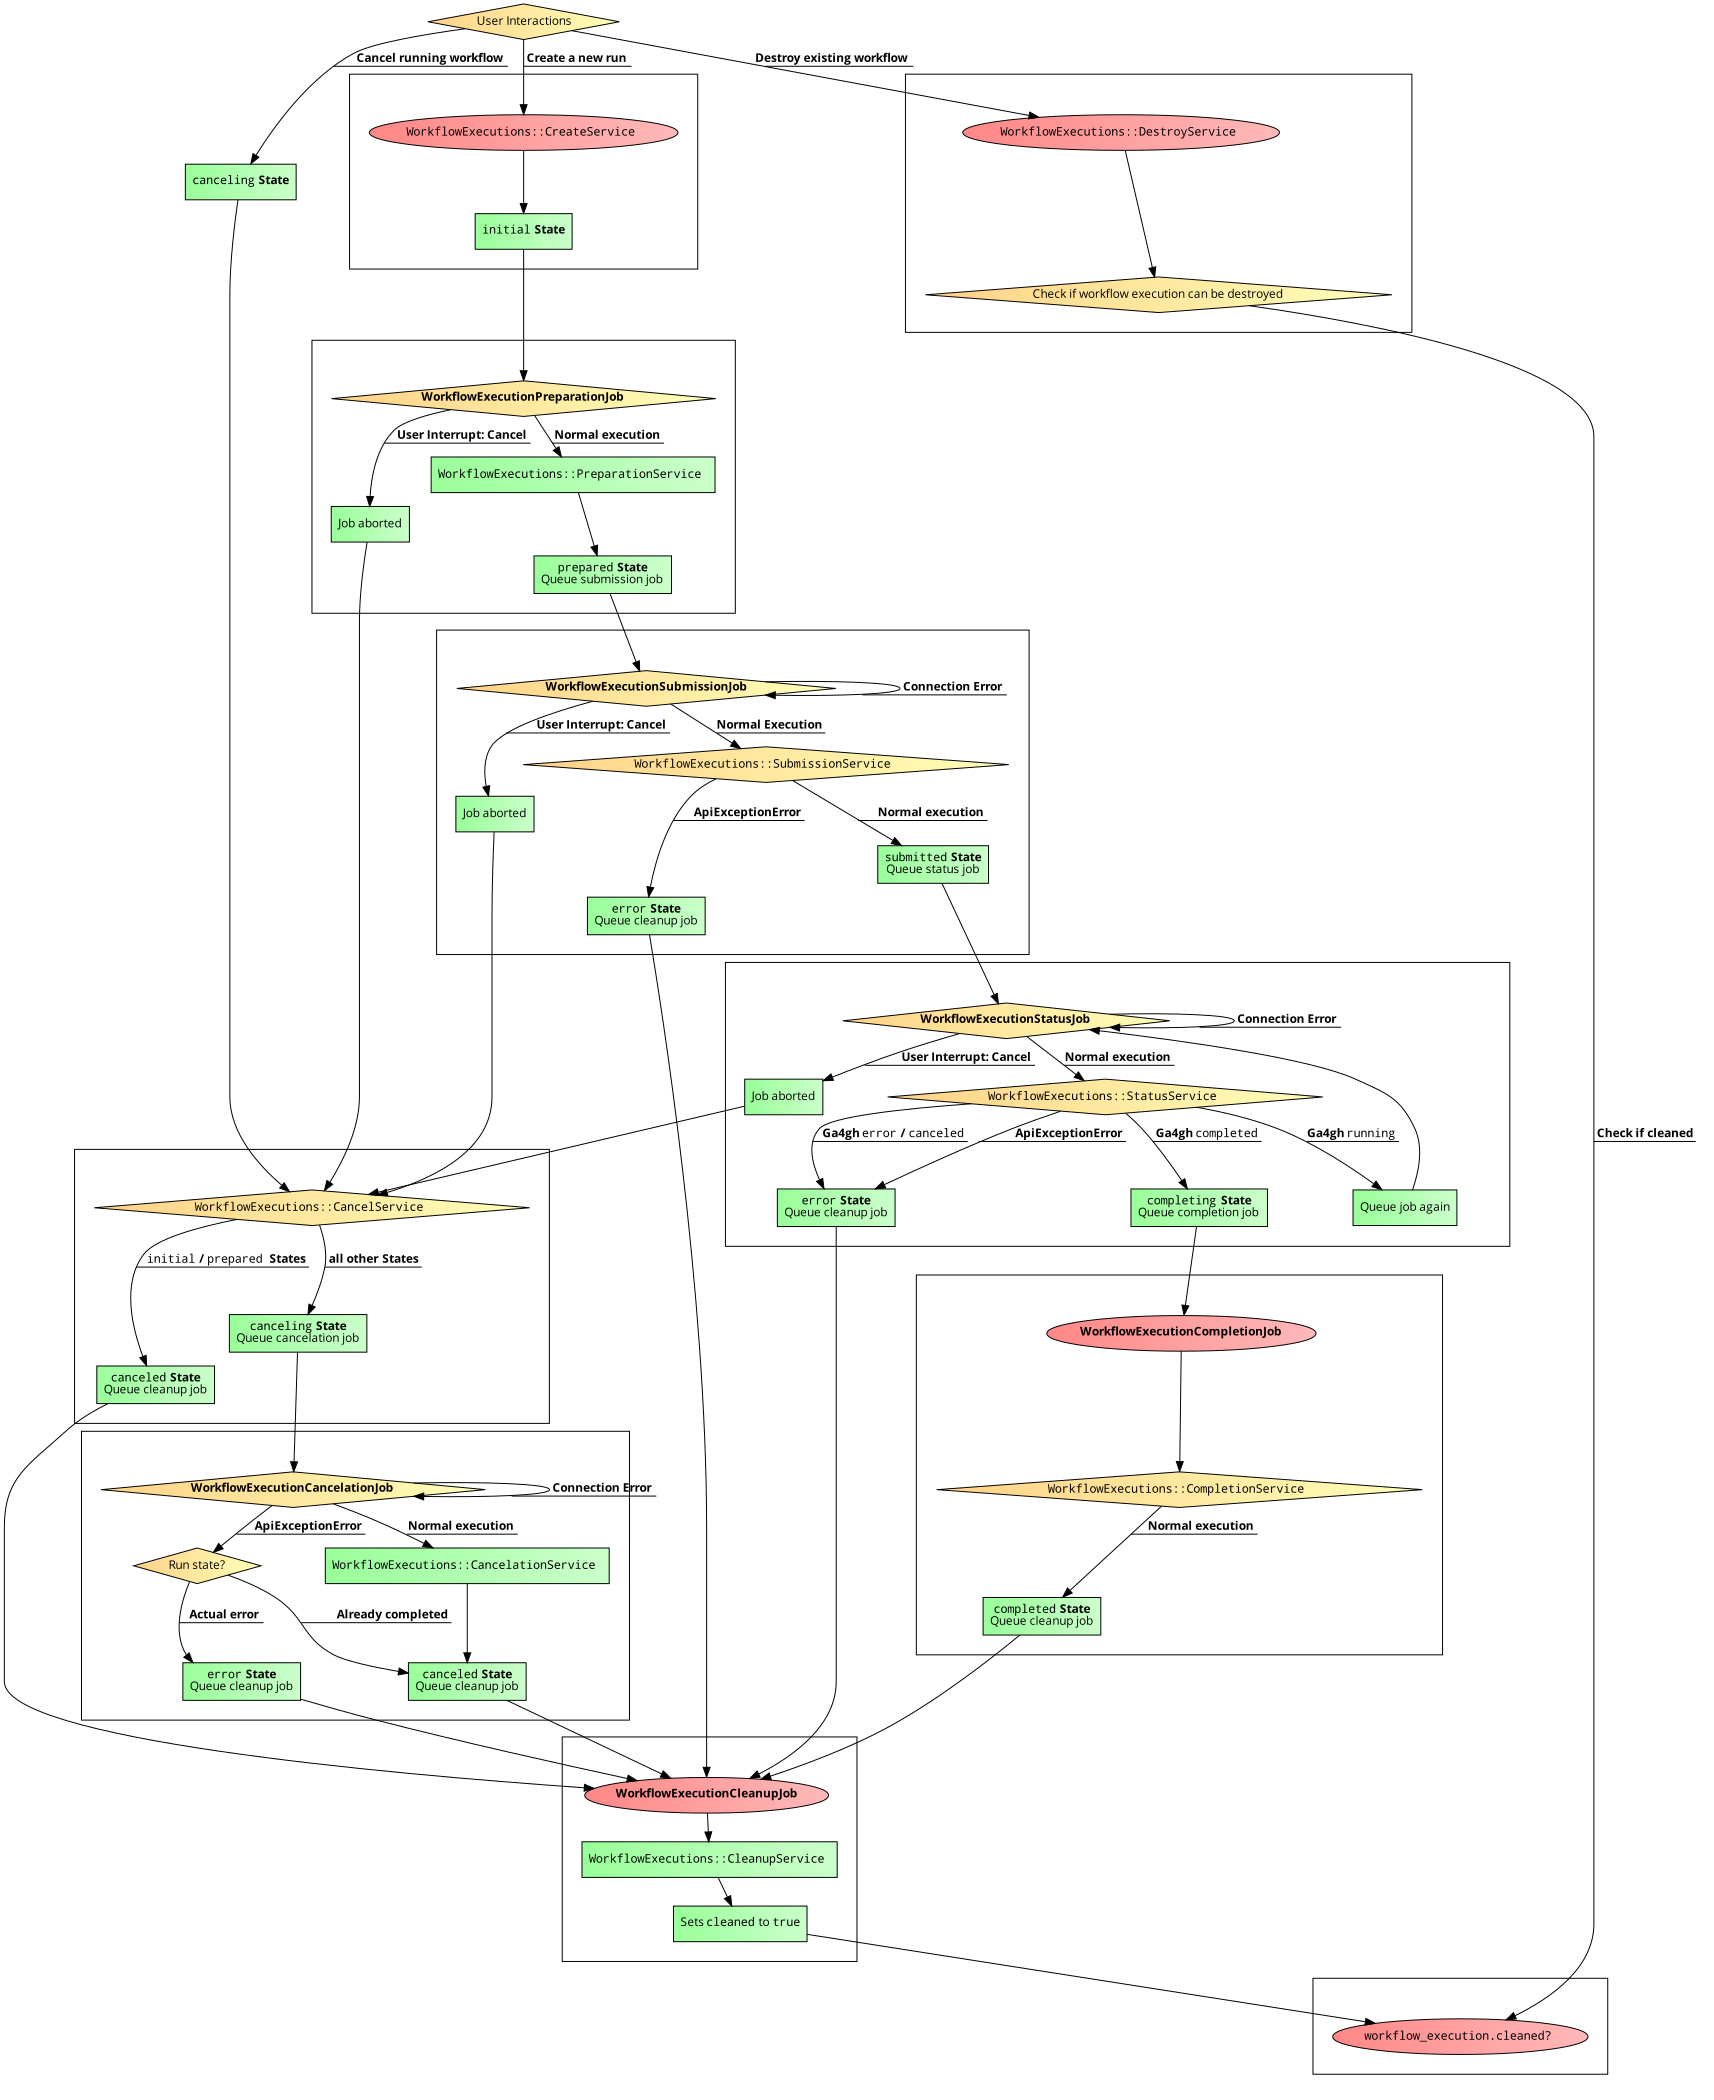
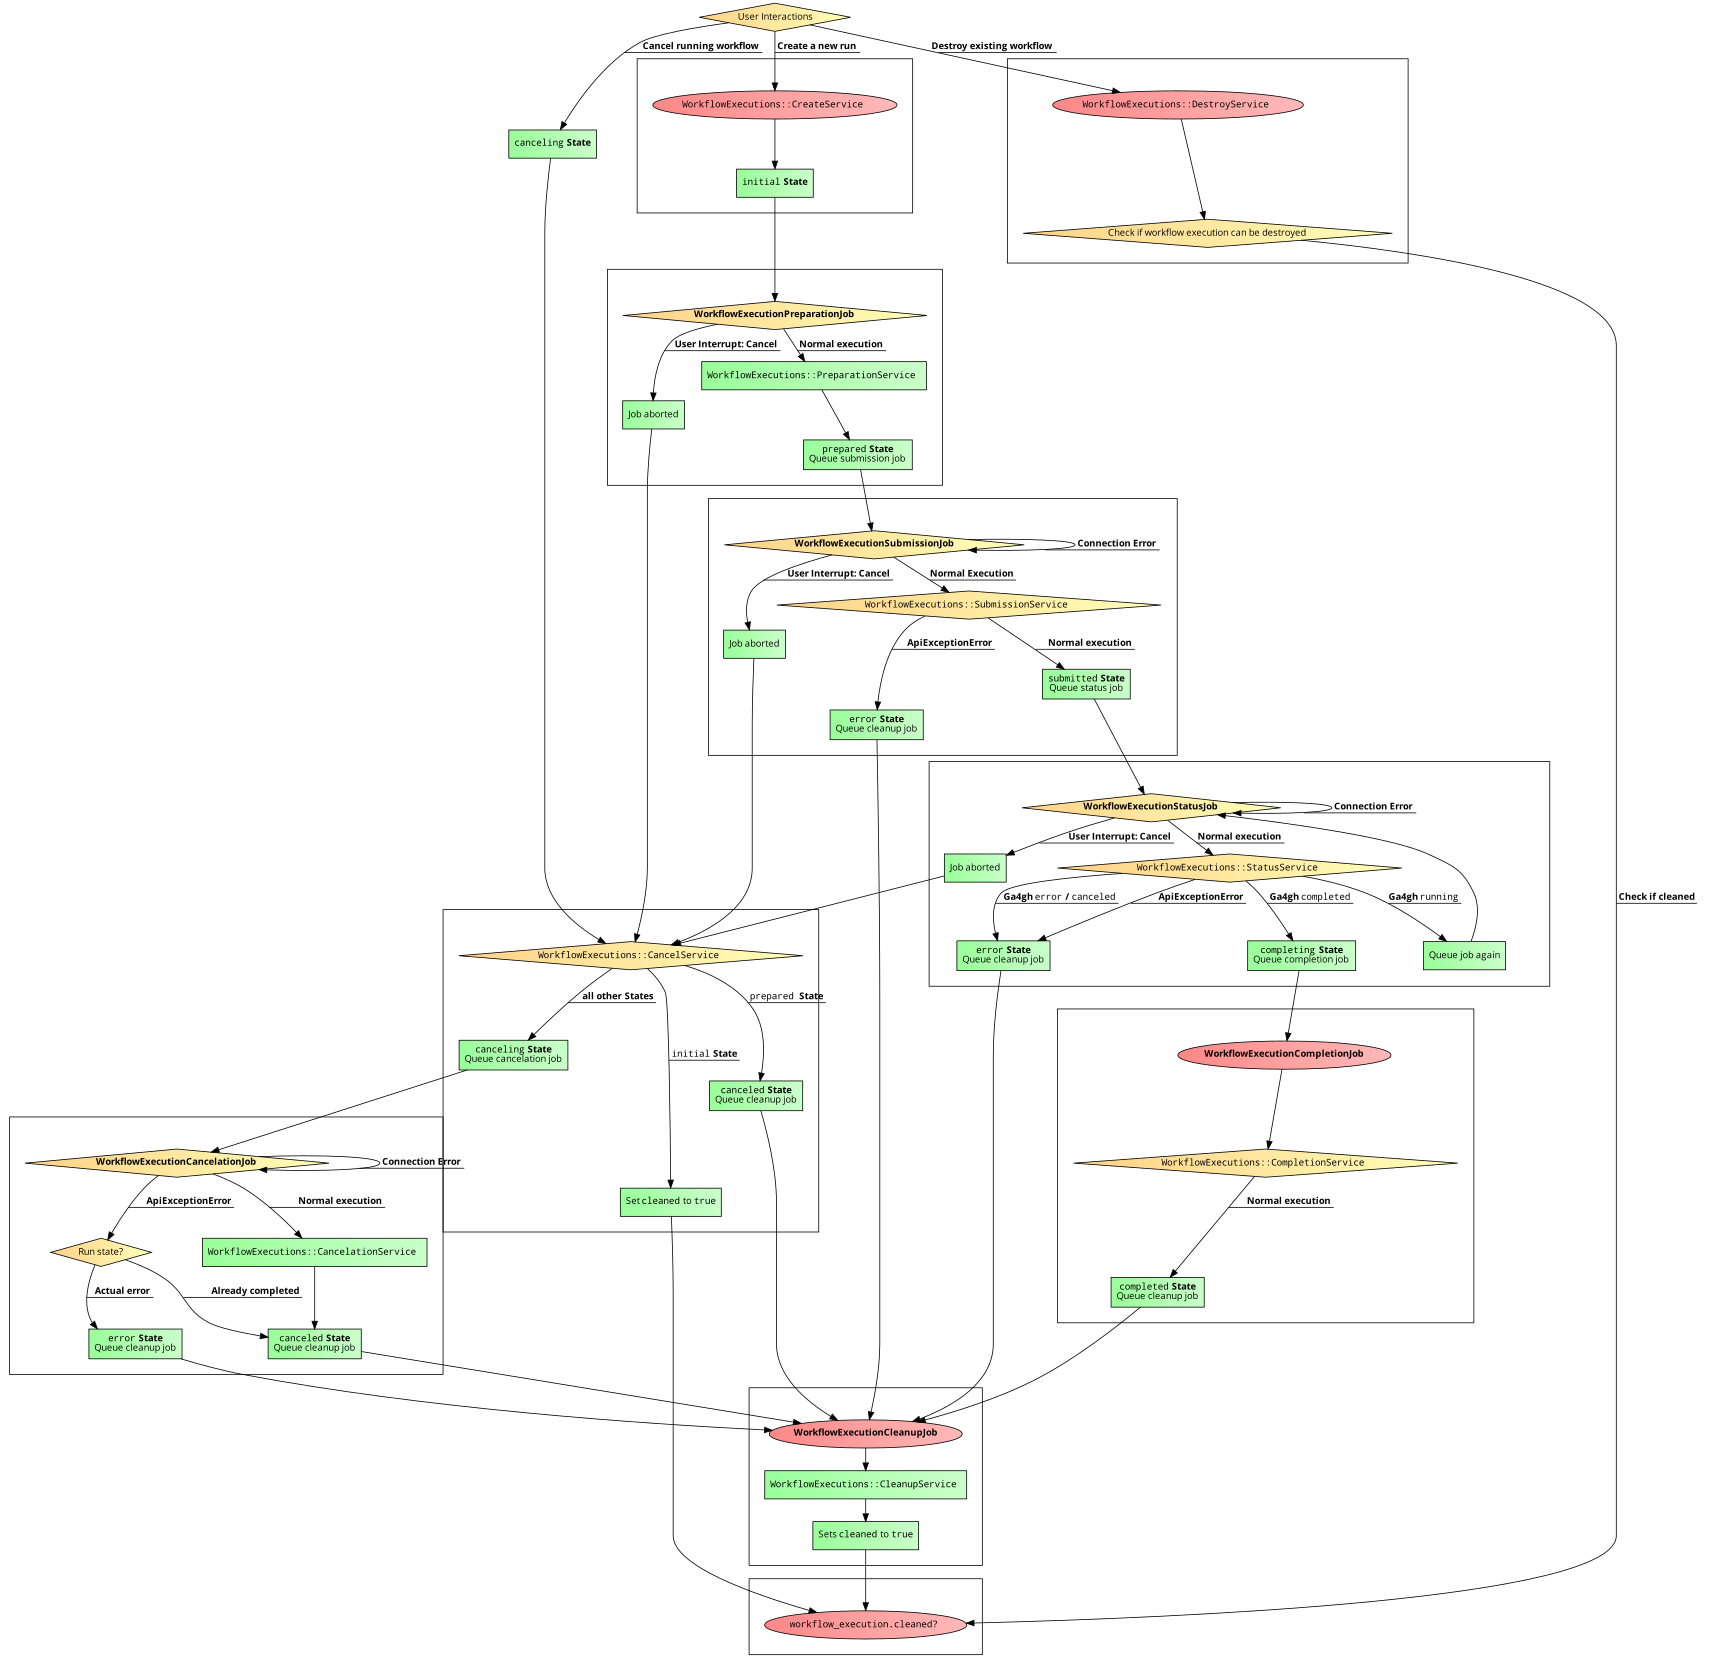
update codeflow diagram

diff --git a/docs-site/docs/development/integration/workflow_execution_code_flow.md b/docs-site/docs/development/integration/workflow_execution_code_flow.md
@@ -135,7 +135,11 @@ block {
 block {
   cancel_run: {
     switch(`WorkflowExecutions::CancelService`){
-      `initial` / `prepared`  **States** => {
+      `initial` **State** => {
+        Set `cleaned` to `true`;
+        goto cleaned;
+      }
+      `prepared`  **State** => {
         `canceled` **State**
         Queue cleanup job;
         goto cleanup_job;
